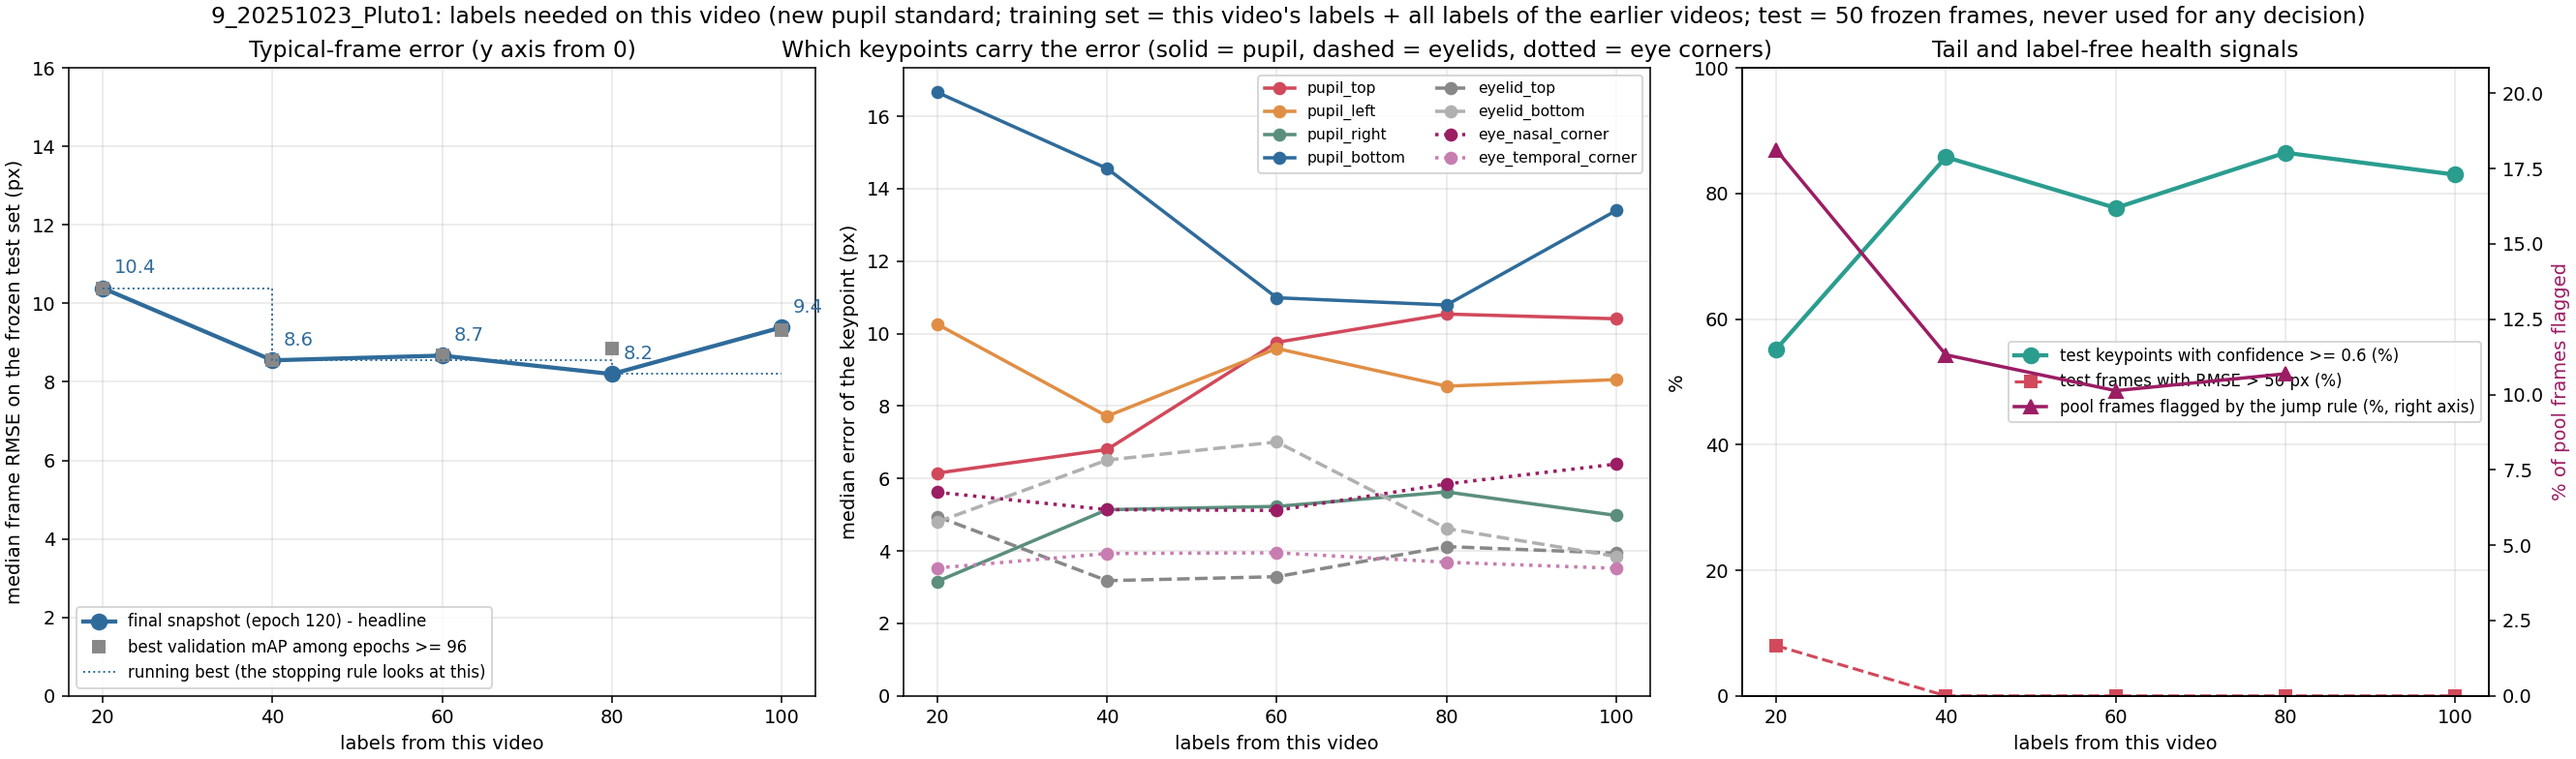
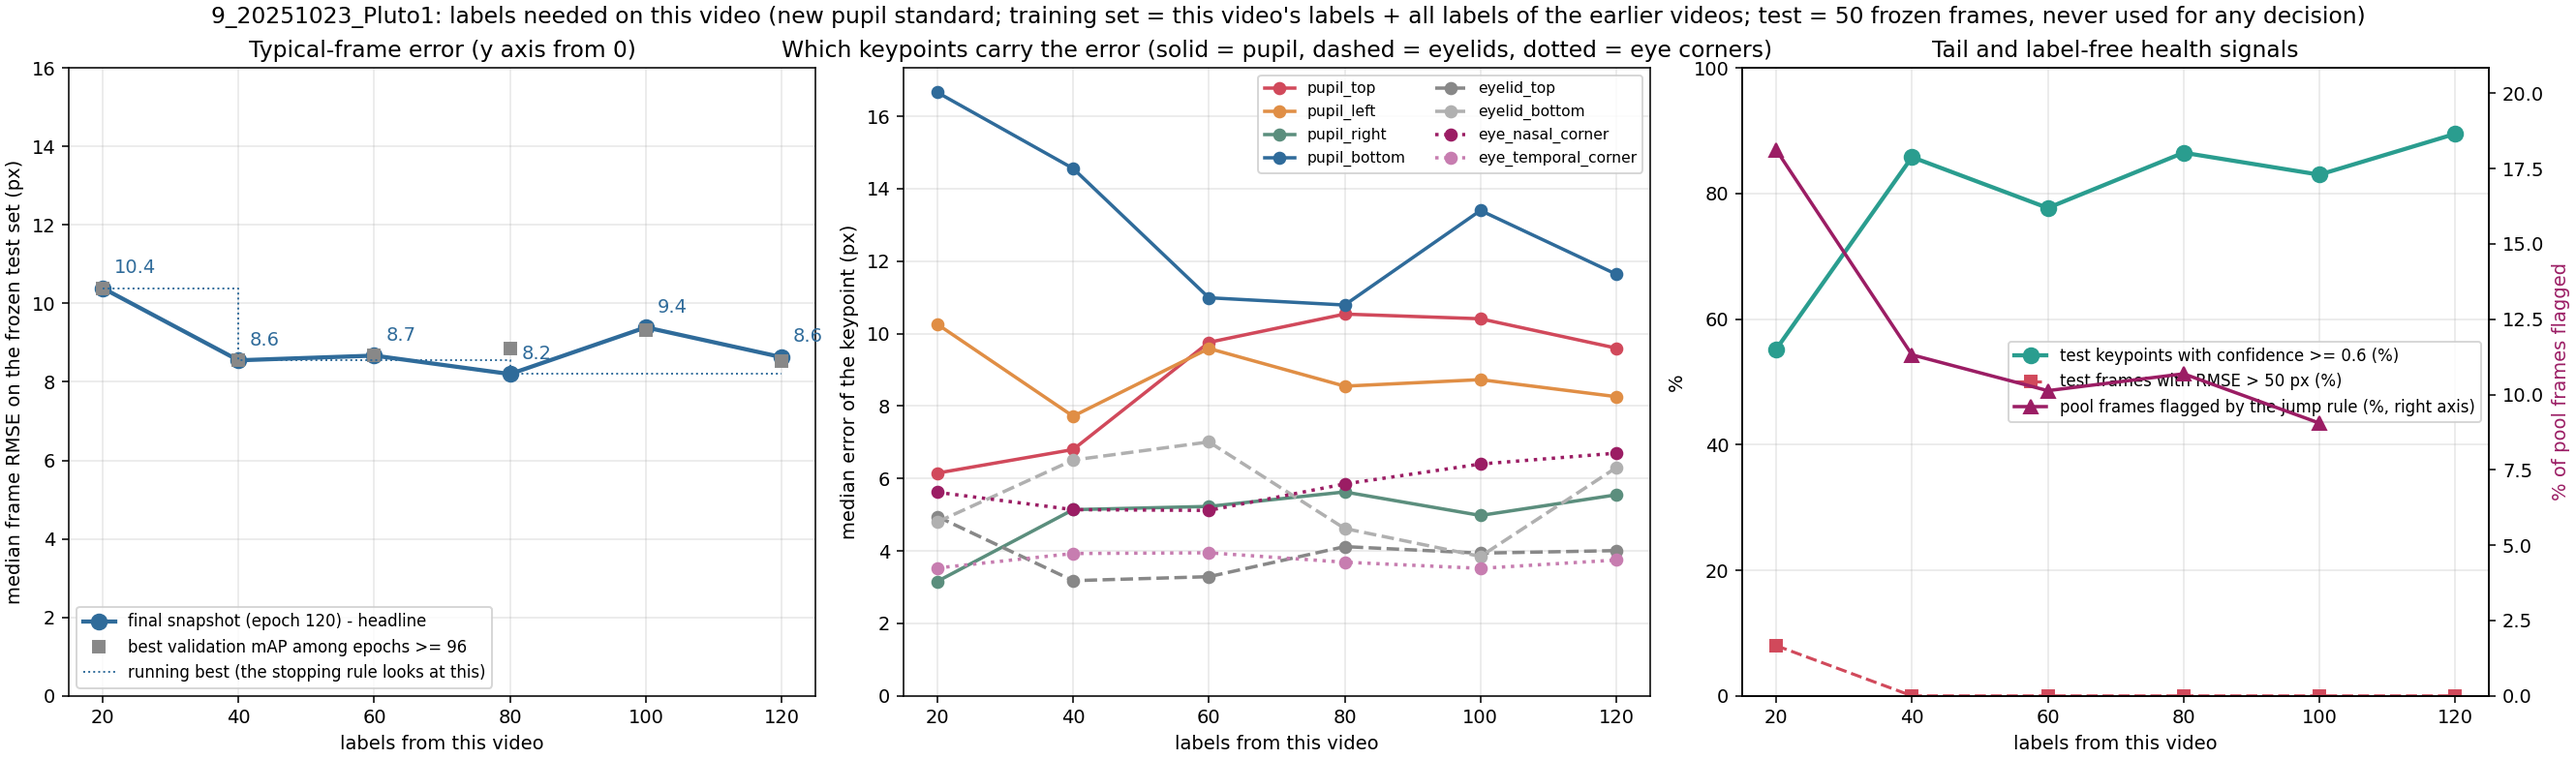
Video 9 v2 step 6: 120 labels = 8.63 px; plateau rule fires (80 labels, 8.20 px), decision pending
Claude-Session: https://claude.ai/code/session_017MK5SWBFFQAu8ejFk1z7fh

diff --git a/README.md b/README.md
@@ -8,7 +8,7 @@ how many human labels are needed, and how few frames must a person correct, befo
 Zhiheng Li (University of Minnesota), with Kaiwen Sheng (Stanford). Raw videos, frames, labels, model weights and
 per-frame predictions stay local; git carries code, documentation and audited aggregate results.
 
-## Status (last updated 2026-10-01 16:25 CDT)
+## Status (last updated 2026-10-01 20:00 CDT)
 
 | what | state |
 |---|---|
@@ -21,7 +21,7 @@ per-frame predictions stay local; git carries code, documentation and audited ag
 | Finished | **video 6** (Pluto, 2025-10-28, v2 line continued): test set relabeled under v2 and frozen; 0 labels (video-5 model 631) = 9.36 px, 20 labels = 6.75 px (p90 11.2), 40 labels = 8.46 px, 60 labels = 10.68 px (p90 14.9): finished at **20 labels, 6.75 px** (rule fired at 60; user decision 2026-09-29). |
 | Finished | **video 7** (Pluto, 2025-10-27, v2 line): test set relabeled under v2 and frozen; 0 labels (video-6 model 711) = 5.36 px, 20 labels = 5.86 px, 40 labels = 5.84 px: finished at **0 labels, 5.36 px** - the video-6 model already fits this day (user decision 2026-09-29). |
 | Finished | **video 8** (Pluto, 2025-10-24, v2 line): test set relabeled under v2 and frozen; 0 labels (video-6 model 711) = 27.46 px, 20 labels = 25.34 px, 40 labels = 30.03 px (p90 ~50, 12-14% of frames > 50 px - a hard day, 3 days after video 7); 60 labels = 33.77 px: finished at **20 labels, 25.34 px** (rule fired at 60; 12-16% of frames > 50 px at every step - this day is hard). |
-| In progress | **video 9** (Pluto, 2025-10-23, v2 line): test50 / val20 / batch01 labeled from model-711 pre-labels; 0 labels (model 711) = 23.41 px, 20 labels = 10.39 px, 40 labels = 8.55 px, 60 labels = 8.67 px (p90 14.8; no gain on the median), 80 labels = 8.20 px (p90 14.8; 4.1% better than 8.55), 100 labels = 9.39 px (p90 15.5; no gain on the running best of 8.20, the plateau rule decides after step 6); batch06 being selected. Cross-video curves now also show the 5 / 10-label subset models (open markers) |
+| In progress | **video 9** (Pluto, 2025-10-23, v2 line): test50 / val20 / batch01 labeled from model-711 pre-labels; 0 labels (model 711) = 23.41 px, 20 labels = 10.39 px, 40 labels = 8.55 px, 60 labels = 8.67 px (p90 14.8; no gain on the median), 80 labels = 8.20 px (p90 14.8; 4.1% better than 8.55), 100 labels = 9.39 px (p90 15.5), 120 labels = 8.63 px (p90 15.8): the plateau rule fired at 120 (two steps without a gain on 8.20), plateau point by the rule = **80 labels, 8.20 px**; decision pending. Cross-video curves now also show the 5 / 10-label subset models (open markers) |
 | Blink / area analysis | per-video time series in `<video>/results/blink_area_analysis/`; across videos (`v2_new_pupil_top_video_scaling/results/blink_area_consistency.png`): 4-point area better on 7 of 8 test sets; lowest pupil confidence < ~0.2 separates all 16 human closed-eye frames (the production 0.6 cut flags ~half of open frames); area correlates with eye opening in every video |
 | Test-set only | videos 5-8 (2025-10-29 / 28 / 27 / 24): frozen test sets scored by every model so far; videos 9 (10-23) and 10 (10-22): test sets being labeled |
 
@@ -40,7 +40,7 @@ Labels needed per video (plateau = two consecutive 20-label steps that improve t
 | 6 | Pluto, 2025-10-28 | 380 | 9.36 / 6.75 / 8.46 / 10.68 px (v2) | 20 labels, 6.75 px (rule fired at 60) |
 | 7 | Pluto, 2025-10-27 | 400 | 5.36 / 5.86 / 5.84 px (v2) | 0 labels, 5.36 px (rule fired at 40) |
 | 8 | Pluto, 2025-10-24 | 400 | 27.46 / 25.34 / 30.03 / 33.77 px (v2) | 20 labels, 25.3 px (rule fired at 60) |
-| 9 | Pluto, 2025-10-23 | 420 | 23.41 / 10.39 / 8.55 / 8.67 / 8.20 / 9.39 px (v2, in progress) | – |
+| 9 | Pluto, 2025-10-23 | 420 | 23.41 / 10.39 / 8.55 / 8.67 / 8.20 / 9.39 px, 120 labels: 8.63 px (v2) | 80 labels, 8.2 px by the rule (fired at 120; decision pending) |
 
 What the numbers say:
 

diff --git a/v2_new_pupil_top_video_scaling/results/README.md b/v2_new_pupil_top_video_scaling/results/README.md
@@ -21,7 +21,7 @@ snapshot with the best validation mAP after the first learning-rate drop (epochs
 | 6 `6_20251028_Pluto_spont_1` | mouse B, 19.9 min, 2025-10-28 | 380 (videos 0-3 + 40 of video 4 + 20 of video 5) | convention v2: 9.36 / 6.75 / 8.46 / 10.68 | **20 labels** (rule fired at 60; user decision 2026-09-29) | 6.75 px |
 | 7 `7_20251027_Pluto_spont1` | mouse B, 19.9 min, 2025-10-27 | 400 (videos 0-3 + 40 of video 4 + 20 of video 5 + 20 of video 6) | convention v2: 5.36 / 5.86 / 5.84 | **0 labels** (rule fired at 40; user decision 2026-09-29) | 5.36 px |
 | 8 `8_20251024_Pluto_spont1` | mouse B, 19.9 min, 2025-10-24 | 400 (videos 0-3 + 40 of video 4 + 20 of video 5 + 20 of video 6) | convention v2: 27.46 / 25.34 / 30.03 / 33.77 | **20 labels** (rule fired at 60; user decision 2026-09-30) | 25.34 px |
-| 9 `9_20251023_Pluto1` | mouse B, 19.9 min, 2025-10-23 | 420 (videos 0-3 + 40 of video 4 + 20 each of videos 5, 6, 8) | convention v2: 23.41 / 10.39 / 8.55 / 8.67 / 8.20 / 9.39 | in progress (running best 8.20 at 80 labels; step 5 did not improve on it; the rule decides after step 6) | – |
+| 9 `9_20251023_Pluto1` | mouse B, 19.9 min, 2025-10-23 | 420 (videos 0-3 + 40 of video 4 + 20 each of videos 5, 6, 8) | convention v2: 23.41 / 10.39 / 8.55 / 8.67 / 8.20 / 9.39 / 8.63 (120 labels) | **80 labels** by the rule (fired at 120: steps 5 and 6 did not improve on 8.20); decision pending | 8.20 px |
 
 `labels_to_plateau.png` / `labels_to_plateau.csv` (2026-09-30): the plateau point of every video in the sequence as one figure - labels needed (left) and the error at the plateau vs the 0-label error (right); `scripts/plot_labels_to_plateau.py`. The csv is the table above in machine-readable form and is updated when a video finishes.
 

diff --git a/v2_new_pupil_top_video_scaling/9_20251023_Pluto1/results/README.md b/v2_new_pupil_top_video_scaling/9_20251023_Pluto1/results/README.md
@@ -14,3 +14,6 @@ contributed none); shuffles 1011, 1012, ...
 | 60 (shuffle 1013) | 8.67 px | 14.8 | 0% | 78% | 5790 of 57158 (10.1%) |
 | 80 (shuffle 1014) | 8.20 px | 14.8 | 0% | 86% | 6110 of 57158 (10.7%) |
 | 100 (shuffle 1015) | 9.39 px | 15.5 | 0% | 83% | 5175 of 57158 (9.1%) |
+| 120 (shuffle 1016) | 8.63 px | 15.8 | 0% | 90% | pending |
+
+**Plateau rule fired at step 6 (2026-10-01):** neither 100 labels (9.39 px) nor 120 labels (8.63 px) improved the running best of 8.20 px (80 labels) by more than 3%, so by the rule the plateau point is **80 labels, 8.20 px**. The batch07 popup is held pending the user's decision. From 40 to 120 labels the median stays between 8.2 and 9.4 px.
